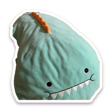
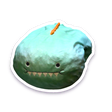
龍龍換成 3D 掃描：用蛋蛋島的 dino.glb 渲染 24 格旋轉圖，配件和衣櫃位置重量

diff --git a/js/spin.js b/js/spin.js
@@ -1,15 +1,16 @@
 /* 娃娃轉得動（2026-11-26）
-   薯餅、蛋黃哥、皮蛋、貓咪老師是 3D 掃描的，各有一張 24 格的旋轉圖（img/spin/<id>.webp，6×4 格、每格 384 像素、一格 15 度，
+   薯餅、蛋黃哥、皮蛋、貓咪老師、龍龍是 3D 掃描的，各有一張 24 格的旋轉圖（img/spin/<id>.webp，6×4 格、每格 384 像素、一格 15 度，
    白色貼紙邊那一版，第 0 格跟 img/<id>.png 是同一個角度）。蛋蛋島的 assets/sprites/<id>_spin.webp 每格只有 192 像素，
    手機上會糊，所以用蛋蛋島的模型（assets/models/<id>.glb）和同一套渲染、後製、調色設定重算成兩倍大；
    蛋蛋島那邊的檔案沒有動。重算用的腳本在 ~/Desktop/GitHub收藏/薯餅小窩/工具/旋轉圖/。
+   龍龍（2026-11-28）：蛋蛋島沒有牠的旋轉圖，用蛋蛋島 5bd1e12 的 assets/models/dino.glb 照同一套流程算，取景、光線、調色是小窩自己選的。
    格數越大，娃娃越往畫面右邊轉：第 6 格臉朝右、第 12 格背對、第 18 格臉朝左。
    - 房間裡：跳去別的地方時臉朝移動的方向；講話、互動時轉向對方；「look」是轉 30 度看一下再轉回來；「spin」用真的 24 格轉一圈。
      轉的時候一格一格過去。停下來一陣子，慢慢轉回正面或 3/4 側面。點牠、抓起牠：轉回正面。
    - 相簿那一隻的頁面：手指左右滑可以轉 360 度。
    - 帽子跟著轉：戴頭頂的照頭的位置挪，戴臉上的（墨鏡、腮紅）跟著臉移、轉到側面淡出。
    - 衣服是照正面畫的：穿著衣服的娃娃在房間裡最多轉 30 度，不做轉圈；相簿裡轉超過 30 度衣服先淡出，轉回來再出現。
-   - 彈跳豬、龍龍、史努比、火腿沒有 3D 掃描：移動時左右翻面朝移動的方向。
+   - 彈跳豬、史努比、火腿沒有 3D 掃描：移動時左右翻面朝移動的方向。
    角度只記在記憶體，不存檔。拍照、明信片照按下快門那一刻的角度畫（側身就畫旋轉圖的那一格，js/photo.js），不先轉回正面。
    這個檔要放在 roam.js、roam2.js、skit.js 後面載入（包它們的函式）。 */
 const SPIN = {
@@ -18,9 +19,11 @@ const SPIN = {
   // 皮蛋的旋轉圖取景比 img/dog.png 遠（趴著的狗轉起來比較佔位置），放大、挪一點對回原本的大小；頭不在轉軸上（hz＝頭在轉軸前面多少）
   dog: {src: 'img/spin/dog.webp', fit: 'translate(1.7%,-.4%) scale(1.28)', fr: .3, hz: .16},
   nyanko: {src: 'img/spin/nyanko.webp', fr: .4},
+  // 龍龍的臉長在大圓身體的正面，離轉軸遠（照旋轉圖第 0～4 格眼睛的位置推的）
+  dino: {src: 'img/spin/dino.webp', fr: 1.2},
 };
 const SPIN_N = 24, SPIN_STEP = 42;                       // 一格 42 毫秒：轉 90 度大約四分之一秒
-const SPIN_FLAT = {piggy: 'l', snoopy: 'l', dino: 'r', moodeng: 'r'};   // 沒有 3D 的四隻：照片本來臉朝哪邊
+const SPIN_FLAT = {piggy: 'l', snoopy: 'l', moodeng: 'r'};   // 沒有 3D 的三隻：照片本來臉朝哪邊
 const SPS = new WeakMap();                               // 元素 → {d, f 現在第幾格, t 要轉到第幾格, …}
 const spinLive = new Set();
 const spinImg = {};                                      // 娃娃 → 0 還沒載、1 載入中、2 好了

diff --git a/js/looks.js b/js/looks.js
@@ -311,8 +311,8 @@ function outfitSvg(id, layer, who = 'sloth') {
 }
 
 // ---------- 小窩加的 ----------
-// 龍龍：蛋蛋島沒有這隻，照小窩 img/dino.png 量
-TOY_FACE.dino = { x: 0.5, top: 0.03, eyes: 0.36, cheeks: 0.5, w: 0.62 };
+// 龍龍：蛋蛋島沒有這隻，照小窩的 img/dino.png 量（2026-11-28 換成 3D 掃描的新圖後重量；臉偏左，因為取景是 3/4 側面）
+TOY_FACE.dino = { x: 0.39, top: 0.08, eyes: 0.6, cheeks: 0.7, w: 0.5 };
 // 彈跳豬：小窩的圖只有頭，蝴蝶結照蛋蛋島會掉到下巴外面，改戴在右耳旁邊
 ACCESSORY_TUNING.moodeng.bow = { offsetX: 0.02, offsetY: 0.06, scale: 0.78, rot: 18 };
 return { TOY_FACE, ACCESSORY_PLACE, ACCESSORY_TUNING, accTune, ACCESSORY_SVG, OUTFITS, OUTFIT_FIT, outfitSvg, outfitSkipped };

diff --git a/js/wardrobe.js b/js/wardrobe.js
@@ -50,7 +50,7 @@ const NEST_BOX = {
   sloth:{x0:.080, y0:.161, x1:.920, y1:.848}, egg:{x0:.152, y0:.080, x1:.848, y1:.938},
   dog:{x0:.080, y0:.098, x1:.920, y1:.920}, piggy:{x0:.107, y0:.080, x1:.893, y1:.938},
   nyanko:{x0:.188, y0:.080, x1:.812, y1:.938}, moodeng:{x0:.080, y0:.223, x1:.920, y1:.795},
-  snoopy:{x0:.107, y0:.089, x1:.893, y1:.929}, dino:{x0:.080, y0:.080, x1:.920, y1:.938},
+  snoopy:{x0:.107, y0:.089, x1:.893, y1:.929}, dino:{x0:.089, y0:.170, x1:.857, y1:.848},
 };
 // 蛋蛋島頭像圖的外框（main.js SLOTH_BOX、TOY_BOX.egg）。衣服是照蛋蛋島的圖對的，要換算到小窩的圖上
 const ISLAND_BOX = { sloth:{x0:.051, y0:.148, x1:.949, y1:.852}, egg:{x0:.125, y0:.043, x1:.875, y1:.961} };
